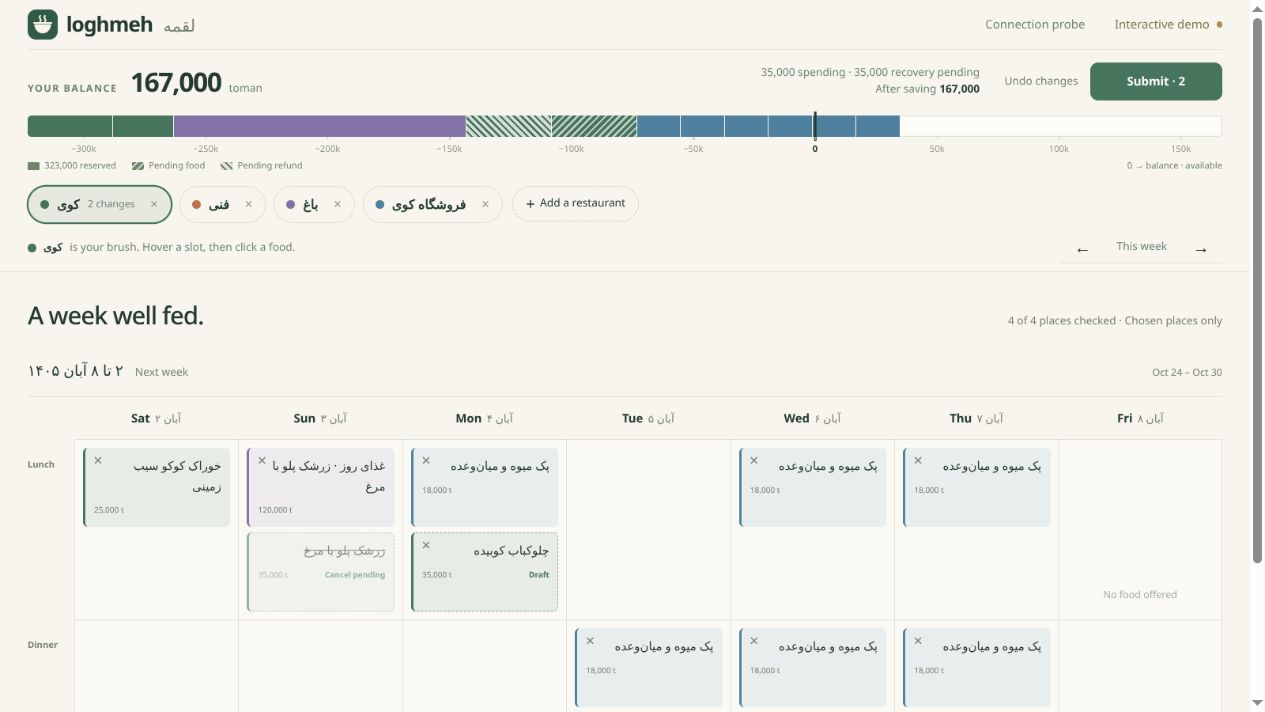
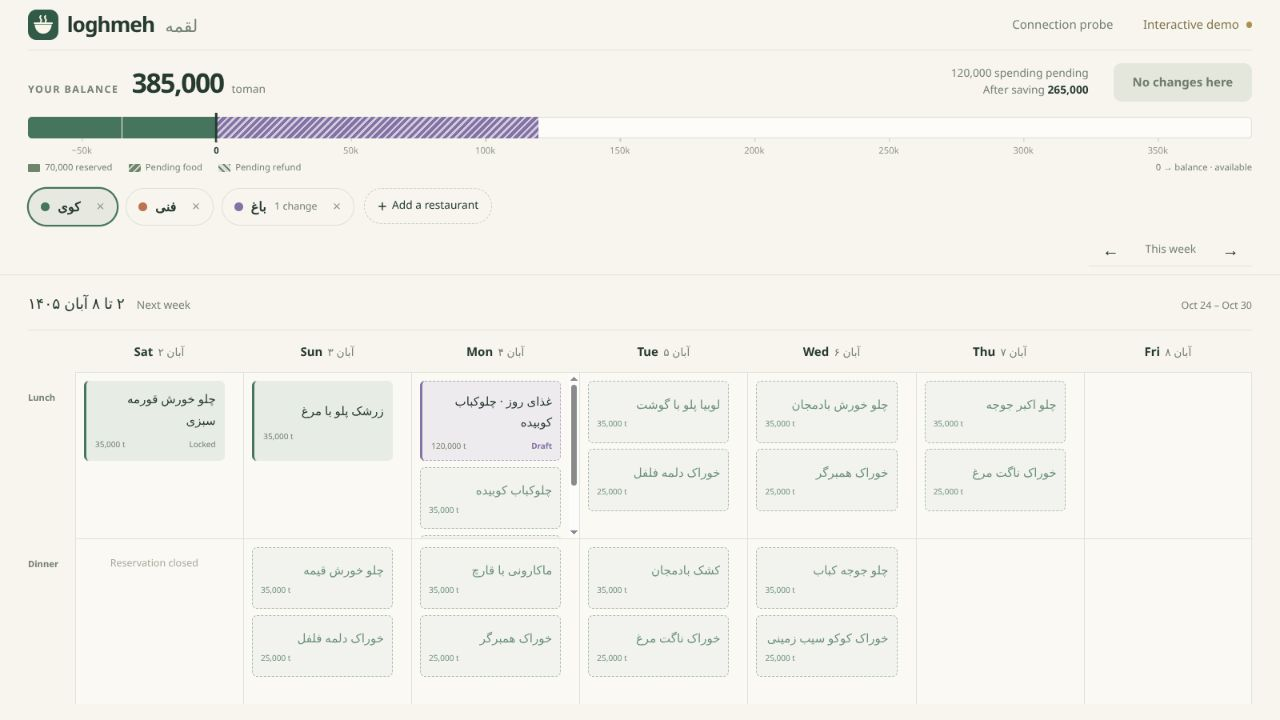
Fill the viewport with scrollable meal cells and direct removal

diff --git a/extension/planner.css b/extension/planner.css
@@ -1,6 +1,6 @@
-:root { color-scheme: light; --ink: #263a2e; --muted: #758075; --paper: #f7f5ee; --surface: #fdfcf8; --green: #315b46; --line: #dfe3d9; --active-color: #47745c; --danger: #b54b40; --header-height: 290px; }
+:root { color-scheme: light; --ink: #263a2e; --muted: #758075; --paper: #f7f5ee; --surface: #fdfcf8; --green: #315b46; --line: #dfe3d9; --active-color: #47745c; --danger: #b54b40; }
 * { box-sizing: border-box; }
-body { margin: 0; color: var(--ink); background: var(--paper); font: 14px/1.5 system-ui, -apple-system, sans-serif; }
+body { margin: 0; height: 100dvh; display: flex; flex-direction: column; color: var(--ink); background: var(--paper); font: 14px/1.5 system-ui, -apple-system, sans-serif; }
 button, input, select { font: inherit; }
 button { cursor: pointer; color: inherit; }
 button:disabled { cursor: default; opacity: .55; }
@@ -10,7 +10,7 @@ a { color: var(--green); text-decoration: none; }
 a:hover { text-decoration: underline; }
 [hidden] { display: none !important; }
 .sr-only { position: absolute; width: 1px; height: 1px; overflow: hidden; clip-path: inset(50%); white-space: nowrap; }
-.app-shell { position: sticky; top: 0; z-index: 10; background: var(--paper); border-bottom: 1px solid var(--line); padding: 0 max(28px, calc((100vw - 1336px)/2)); }
+.app-shell { position: relative; flex-shrink: 0; z-index: 10; background: var(--paper); border-bottom: 1px solid var(--line); padding: 0 28px; }
 .topbar { display: flex; justify-content: space-between; align-items: center; height: 50px; border-bottom: 1px solid var(--line); }
 .brand { display: inline-flex; align-items: center; gap: 9px; color: var(--ink); font-size: 21px; font-weight: 750; letter-spacing: -.8px; }
 .brand span[lang] { font-size: 17px; font-weight: 500; color: var(--muted); margin-left: 6px; }
@@ -75,10 +75,7 @@ a:hover { text-decoration: underline; }
 .add-place { display: flex; align-items: center; gap: 5px; border: 1px dashed #c7cfbf; padding: 8px 13px; border-radius: 22px; background: transparent; font-size: 11px; white-space: nowrap; min-height: 36px; }
 .add-place:hover { background: #ecefe5; }
 .add-place > span:first-child { font-size: 16px; line-height: 1; }
-.calendar-toolbar { display: flex; justify-content: space-between; align-items: center; gap: 15px; padding: 0 0 8px; }
-.brush-hint { display: flex; align-items: center; gap: 7px; margin: 0; font-size: 11px; min-width: 0; }
-.brush-hint > span:nth-child(2) { font-weight: 600; overflow: hidden; text-overflow: ellipsis; white-space: nowrap; }
-.brush-hint .muted { flex-shrink: 0; }
+.calendar-toolbar { display: flex; justify-content: flex-end; padding: 0 0 8px; }
 .muted { color: var(--muted); }
 nav { display: flex; flex-shrink: 0; border-bottom: 1px solid var(--line); }
 nav button { font-size: 11px; border: 0; background: transparent; padding: 6px 13px; color: var(--muted); border-bottom: 2px solid transparent; margin-bottom: -1px; }
@@ -89,58 +86,46 @@ nav button[aria-pressed="true"] { color: var(--ink); border-bottom-color: var(--
 .today-label { font-weight: 650; white-space: nowrap; }
 #today-reservations { display: flex; gap: 14px; color: var(--muted); flex-wrap: wrap; }
 .today-booking { display: inline-flex; align-items: center; gap: 6px; color: var(--ink); }
-.autosave-hint { color: var(--muted); margin-left: auto; white-space: nowrap; font-size: 10px; }
-.calendar-main { max-width: 1336px; padding: 0 28px 24px; margin: 0 auto; }
-.calendar-heading { display: flex; justify-content: space-between; align-items: baseline; padding: 26px 0 8px; gap: 20px; }
-h1 { font-size: 25px; letter-spacing: -.9px; font-weight: 550; margin: 0; }
-#coverage { font-size: 11px; color: var(--muted); text-align: right; }
-.week { scroll-margin-top: calc(var(--header-height) + 16px); margin-bottom: 35px; }
-.weeks { overflow-anchor: none; }
-.week-heading { display: flex; justify-content: space-between; align-items: baseline; padding: 18px 0 14px; }
+.calendar-main { display: flex; flex-direction: column; flex: 1; min-height: 0; width: 100%; padding: 0 28px 16px; }
+.week { height: 100%; display: flex; flex-direction: column; }
+.weeks { flex: 1; min-height: 0; }
+.week-heading { display: flex; flex-shrink: 0; justify-content: space-between; align-items: baseline; padding: 18px 0 14px; }
 .week-heading h2 { font-size: 15px; margin: 0; font-weight: 550; }
 .week-heading .week-relative { font-size: 11px; color: var(--muted); margin-left: 12px; }
 .week-heading .week-gregorian { font-size: 10px; color: var(--muted); }
-.week-grid { display: grid; grid-template-columns: 47px repeat(7, minmax(0, 1fr)); border-top: 1px solid var(--line); }
+.week-scroll { flex: 1; min-height: 0; }
+.week-grid { height: 100%; display: grid; grid-template-columns: 47px repeat(7, minmax(0, 1fr)); grid-template-rows: auto repeat(2, minmax(0, 1fr)); border-top: 1px solid var(--line); }
 .day-heading { padding: 13px 8px 11px; display: flex; gap: 5px; align-items: baseline; justify-content: center; font-size: 11px; color: var(--muted); }
 .day-heading strong { color: var(--ink); font-size: 12px; font-weight: 600; }
 .day-heading.is-today { color: var(--green); }
 .day-heading.is-today strong { color: var(--green); }
 .day-heading.is-today::after { content: 'TODAY'; font-size: 7px; color: var(--green); letter-spacing: .4px; }
 .meal-heading { color: var(--muted); font-size: 9px; padding-top: 20px; font-weight: 600; }
-.meal-slot { position: relative; min-height: 162px; border-top: 1px solid var(--line); border-left: 1px solid var(--line); padding: 8px; display: flex; flex-direction: column; gap: 6px; background: color-mix(in srgb, var(--surface) 52%, var(--paper)); }
+.meal-slot { position: relative; min-height: 0; min-width: 0; overflow-y: auto; overscroll-behavior: contain; scrollbar-gutter: stable; scrollbar-width: thin; border-top: 1px solid var(--line); border-left: 1px solid var(--line); padding: 8px; display: flex; flex-direction: column; gap: 6px; background: color-mix(in srgb, var(--surface) 52%, var(--paper)); }
 .meal-slot:nth-child(8n) { border-right: 1px solid var(--line); }
 .meal-slot.current-slot { background: #eef1e4; box-shadow: inset 0 2px var(--green); }
 .meal-slot.has-conflict { background: #fbefea; }
-.slot-cards { display: flex; flex-direction: column; gap: 5px; transition: opacity .13s; }
-.food-card { position: relative; border-radius: 5px; background: color-mix(in srgb, var(--restaurant-color) 12%, var(--surface)); border-left: 3px solid var(--restaurant-color); padding: 8px 9px 7px; min-height: 80px; }
+.slot-cards { display: flex; flex-shrink: 0; flex-direction: column; gap: 5px; }
+.food-card { position: relative; display: block; width: 100%; text-align: initial; color: var(--ink); border: 0; border-radius: 5px; background: color-mix(in srgb, var(--restaurant-color) 12%, var(--surface)); border-left: 3px solid var(--restaurant-color); padding: 8px 9px 7px; min-height: 80px; }
 .food-card.is-draft { outline: 1px dashed color-mix(in srgb, var(--restaurant-color) 55%, transparent); outline-offset: -1px; }
 .food-card.is-removing { opacity: .55; }
 .food-card.is-removing .food-name { text-decoration: line-through; }
-.card-remove { position: absolute; top: 2px; left: 2px; border: 0; border-radius: 3px; background: transparent; color: #788274; font-size: 16px; width: 22px; height: 22px; padding: 0; line-height: 1; }
-.food-card:has(.card-remove) .food-name { padding-left: 12px; }
+.remove-hint { position: absolute; inset: 0; display: grid; place-items: center; border-radius: inherit; background: color-mix(in srgb, var(--surface) 85%, transparent); color: var(--restaurant-color); font-size: 32px; opacity: 0; pointer-events: none; transition: opacity .13s; }
+.food-card.is-removable:hover .remove-hint, .food-card.is-removable:focus-visible .remove-hint { opacity: 1; }
 .food-name { display: block; width: 100%; border: 0; background: transparent; text-align: right; font-size: 12px; line-height: 1.75; padding: 0; min-height: 22px; }
 .food-card-bottom { display: flex; justify-content: space-between; gap: 4px; margin-top: 7px; font-size: 8px; color: #74806e; }
 .food-card-bottom .draft-state { color: var(--restaurant-color); font-weight: 600; }
 .slot-cards:empty { display: none; }
-.paint-surface { display: flex; flex-direction: column; gap: 6px; flex: 1; }
-.ghost-options { position: absolute; inset: 8px; display: flex; flex-direction: column; gap: 6px; opacity: 0; pointer-events: none; transition: opacity .13s; }
-.ghost-option { position: relative; flex: 1; display: flex; min-height: 62px; border: 1px dashed color-mix(in srgb, var(--active-color) 55%, transparent); border-radius: 5px; background: color-mix(in srgb, var(--active-color) 7%, var(--surface)); opacity: .66; }
+.paint-surface { display: flex; flex-shrink: 0; flex-direction: column; gap: 6px; }
+.ghost-options { display: flex; flex-direction: column; gap: 6px; }
+.ghost-option { position: relative; display: flex; min-height: 62px; border: 1px dashed color-mix(in srgb, var(--active-color) 55%, transparent); border-radius: 5px; background: color-mix(in srgb, var(--active-color) 7%, var(--surface)); opacity: .8; }
 .ghost-option:hover, .ghost-option:focus-within { opacity: 1; background: color-mix(in srgb, var(--active-color) 14%, var(--surface)); border-style: solid; }
-.ghost-option.is-selected { border-style: solid; }
 .ghost-choice { border: 0; background: transparent; padding: 7px 8px 6px; text-align: right; width: 100%; display: flex; flex-direction: column; justify-content: center; color: var(--active-color); border-radius: 4px; }
 .ghost-name { font-size: 12px; line-height: 1.65; display: -webkit-box; -webkit-line-clamp: 2; -webkit-box-orient: vertical; overflow: hidden; width: 100%; }
 .ghost-meta { font-size: 8px; text-align: left; margin-top: 3px; }
-.ghost-option.is-selected .ghost-choice { padding-left: 24px; }
-.ghost-remove { position: absolute; bottom: 4px; left: 3px; min-width: 23px; min-height: 23px; border: 0; background: transparent; color: var(--active-color); border-radius: 3px; font-size: 16px; }
-.ghost-remove:hover { background: color-mix(in srgb, var(--active-color) 15%, transparent); }
-.meal-slot:hover .ghost-options, .paint-surface:has(.ghost-options :focus-visible) .ghost-options { opacity: 1; pointer-events: auto; }
-.meal-slot:has(.can-paint):hover .slot-cards, .meal-slot:has(.ghost-options :focus-visible) .slot-cards { opacity: .06; pointer-events: none; }
-.meal-slot:has(.slot-cards :focus-visible) .ghost-options { opacity: 0; pointer-events: none; }
-.meal-slot:has(.slot-cards :focus-visible) .slot-cards { opacity: 1; pointer-events: auto; }
 .slot-state { margin-top: auto; display: flex; justify-content: center; align-items: center; gap: 7px; color: #a3aa9c; font-size: 10px; min-height: 33px; padding: 8px 3px; text-align: center; }
 button.slot-state { width: 100%; border: 1px dashed #c4ccbe; background: transparent; border-radius: 4px; color: var(--active-color); }
 .slot-conflict { color: var(--danger); font-size: 9px; margin: 0; }
-.calendar-footer { display: flex; justify-content: space-between; color: #939c8c; font-size: 10px; gap: 20px; padding-bottom: 30px; }
 .planner-warning { padding: 12px 14px; background: #f7e6de; border-left: 3px solid var(--danger); font-size: 12px; margin-top: 16px; }
 dialog { width: min(460px, calc(100% - 32px)); max-height: min(730px, calc(100dvh - 48px)); overflow: auto; padding: 26px; color: var(--ink); background: var(--surface); border: 1px solid var(--line); border-radius: 14px; box-shadow: 0 20px 90px #263a2e26; }
 dialog::backdrop { background: #263a2e4d; backdrop-filter: blur(2px); }
@@ -169,8 +154,7 @@ dialog::backdrop { background: #263a2e4d; backdrop-filter: blur(2px); }
 .toast { position: fixed; z-index: 30; bottom: 22px; left: 50%; transform: translateX(-50%); background: #263a2e; color: white; padding: 12px 20px; border-radius: 9px; font-size: 12px; box-shadow: 0 8px 35px #263a2e26; max-width: min(600px, calc(100% - 40px)); }
 @media (max-width: 1000px) {
   .app-shell { padding: 0 20px; }
-  .calendar-main { padding: 0 20px 24px; }
-  .autosave-hint { display: none; }
+  .calendar-main { padding: 0 20px 16px; }
   .meal-slot { padding: 5px; }
   .food-card { padding: 6px; }
   .food-name { font-size: 11px; }
@@ -200,28 +184,15 @@ dialog::backdrop { background: #263a2e4d; backdrop-filter: blur(2px); }
   .pill-status { max-width: 64px; font-size: 9px; }
   .add-place { min-height: 36px; width: 36px; justify-content: center; padding: 8px; flex-shrink: 0; }
   .add-place-label { display: none; }
-  .brush-hint { font-size: 10px; gap: 5px; }
-  .brush-hint .muted { display: none; }
   nav button { padding: 5px 9px; }
   .today-strip { font-size: 10px; gap: 8px; padding: 6px 0; }
   #today-reservations { gap: 5px; }
-  .calendar-main { padding: 0 14px 20px; }
-  .calendar-heading { padding-top: 18px; align-items: center; }
-  h1 { font-size: 21px; }
-  #coverage { font-size: 9px; max-width: 135px; }
+  .calendar-main { padding: 0 14px 12px; }
   .week-heading { padding: 15px 0 10px; }
   .week-heading .week-gregorian { display: none; }
   .week-grid { grid-template-columns: 45px repeat(7, minmax(132px, 1fr)); min-width: 970px; }
-  .week-scroll { overflow-x: auto; border-right: 1px solid var(--line); }
-  .week-scroll::after { content: 'Scroll sideways to see every day'; display: block; font-size: 9px; color: var(--muted); padding: 7px 0; position: sticky; left: 0; }
+  .week-scroll { overflow-x: auto; overflow-y: hidden; border-right: 1px solid var(--line); }
   .meal-heading { position: sticky; left: 0; z-index: 1; background: var(--paper); }
   .food-name { font-size: 12px; }
-  .calendar-footer { flex-direction: column; gap: 5px; }
-}
-@media (hover: none) {
-  .ghost-options { position: relative; inset: auto; opacity: 1; pointer-events: auto; }
-  .paint-surface.can-paint .active-bookings { display: none; }
-  .meal-slot:hover .slot-cards { opacity: 1; pointer-events: auto; }
-  .ghost-option { opacity: .85; }
 }
 @media (prefers-reduced-motion: reduce) { *, *::before, *::after { scroll-behavior: auto !important; animation: none !important; transition: none !important; } }

diff --git a/extension/planner.html b/extension/planner.html
@@ -30,17 +30,14 @@
       <button id="add-place" class="add-place" aria-haspopup="dialog" aria-label="Add a restaurant"><span aria-hidden="true">+</span><span class="add-place-label">Add a restaurant</span></button>
     </div>
     <div class="calendar-toolbar">
-      <p class="brush-hint"><span id="brush-dot" class="color-dot"></span><span id="brush-name" dir="auto"></span><span class="muted">is your brush. Hover a slot, then click a food.</span></p>
       <nav class="week-navigation" aria-label="Calendar week"><button id="week-previous" aria-label="Previous week" title="Previous week">←</button><button id="jump-current" aria-pressed="false">This week</button><button id="week-next" aria-label="Next week" title="Next week">→</button></nav>
     </div>
-    <div class="today-strip" id="today-strip" hidden><span class="today-label" id="today-label">Today</span><div id="today-reservations">Finding today’s meals…</div><span class="autosave-hint">Saves when you change restaurant</span></div>
+    <div class="today-strip" id="today-strip" hidden><span class="today-label" id="today-label">Today</span><div id="today-reservations">Finding today’s meals…</div></div>
   </header>
 
-  <main class="calendar-main">
+  <main class="calendar-main" aria-label="Meal calendar">
     <div id="planner-warning" class="planner-warning" role="alert" hidden></div>
-    <div class="calendar-heading"><h1>A week well fed.</h1><span id="coverage">Checking your places…</span></div>
     <div id="weeks" class="weeks"></div>
-    <footer class="calendar-footer"><span>One week at a time · Saves when you change restaurant.</span><span id="data-notice">Sample menus · Your university reservations are untouched.</span></footer>
   </main>
 
   <dialog id="place-picker" aria-labelledby="place-title">

diff --git a/tests/browser-live-planner.html b/tests/browser-live-planner.html
@@ -30,17 +30,14 @@
       <button id="add-place" class="add-place" aria-haspopup="dialog" aria-label="Add a restaurant"><span aria-hidden="true">+</span><span class="add-place-label">Add a restaurant</span></button>
     </div>
     <div class="calendar-toolbar">
-      <p class="brush-hint"><span id="brush-dot" class="color-dot"></span><span id="brush-name" dir="auto"></span><span class="muted">is your brush. Hover a slot, then click a food.</span></p>
       <nav class="week-navigation" aria-label="Calendar week"><button id="week-previous" aria-label="Previous week" title="Previous week">←</button><button id="jump-current" aria-pressed="false">This week</button><button id="week-next" aria-label="Next week" title="Next week">→</button></nav>
     </div>
-    <div class="today-strip" id="today-strip" hidden><span class="today-label" id="today-label">Today</span><div id="today-reservations">Finding today’s meals…</div><span class="autosave-hint">Saves when you change restaurant</span></div>
+    <div class="today-strip" id="today-strip" hidden><span class="today-label" id="today-label">Today</span><div id="today-reservations">Finding today’s meals…</div></div>
   </header>
 
-  <main class="calendar-main">
+  <main class="calendar-main" aria-label="Meal calendar">
     <div id="planner-warning" class="planner-warning" role="alert" hidden></div>
-    <div class="calendar-heading"><h1>A week well fed.</h1><span id="coverage">Checking your places…</span></div>
     <div id="weeks" class="weeks"></div>
-    <footer class="calendar-footer"><span>One week at a time · Saves when you change restaurant.</span><span id="data-notice">Sample menus · Your university reservations are untouched.</span></footer>
   </main>
 
   <dialog id="place-picker" aria-labelledby="place-title">

diff --git a/tests/browser-mobile.html b/tests/browser-mobile.html
@@ -5,7 +5,7 @@
 <title>Loghmeh · 390px responsive check</title>
 <style>
   body { margin: 0; background: #e4e7df; display: flex; justify-content: center; }
-  iframe { width: min(390px, 100vw); height: 844px; border: 0; background: #f7f5ee; }
+  iframe { width: min(390px, 100vw); height: min(844px, 100dvh); border: 0; background: #f7f5ee; }
 </style>
 <iframe src="/extension/planner.html" title="Loghmeh at a 390 pixel mobile viewport"></iframe>
 </html>

diff --git a/README.md b/README.md
@@ -4,7 +4,7 @@ A calmer meal planner for University of Tehran dining. Pick your usual
 restaurants as colors, preview foods inside a weekly calendar, and keep your
 choices when the server rejects a request.
 
-Independent, unofficial Firefox / Zen extension. **Version 0.5.0 · MIT.**
+Independent, unofficial Firefox / Zen extension. **Version 0.6.0 · MIT.**
 
 ![The weekly planner with fictional menus and pending balance changes](docs/assets/planner-demo.jpg)
 
@@ -16,11 +16,14 @@ Independent, unofficial Firefox / Zen extension. **Version 0.5.0 · MIT.**
 4. Open **Loghmeh** from the browser toolbar. It connects using that browser's
    dining login. If signed out, use **Open dining login**, sign in normally,
    then **Reconnect dining**.
-5. Add your usual restaurants from the nested picker. Hover a slot and click
-   a food to select it; keyboard focus reveals the same choices.
+5. Add your usual restaurants from the nested picker. Food options stay visible;
+   click one to select it. Hovering an existing reservation shows ×; clicking the
+   card stages its removal. Keyboard focus provides the same actions.
 
-**The extension planner uses real dining data. Submit and changing restaurants
-submit the outgoing restaurant's pending changes.** The sample-menu link opens
+**The extension planner uses real dining data. Submit and changing restaurant
+pills submit the outgoing restaurant's pending changes.** Clicking a reservation
+stages its cancellation and activates that restaurant for Submit/Undo; other
+drafts stay pending. The sample-menu link opens
 an isolated simulation if you want to explore the interactions first.
 
 After updating source, click **Reload** in `about:debugging`, then open a new
@@ -32,10 +35,11 @@ The only host permission is `https://dining2.ut.ac.ir/*`.
 - View one Saturday-first week, with previous/next controls, Jalali and
   Gregorian dates, and today in Asia/Tehran. Only that week is requested for
   selected restaurants; menus arrive incrementally beside their loading pills.
-  Returning to a loaded week reuses its snapshot in the open tab.
-- Use **This week** to see current reservations. Coverage refers to your selected
-  places; Loghmeh does not claim to have scanned every place. No other week is
-  scanned in the background.
+  Returning to a loaded week reuses its snapshot in the open tab. The calendar
+  fills the viewport; each meal cell scrolls independently and keeps its height
+  when restaurant content changes.
+- Use **This week** to see current reservations. Only selected places are checked;
+  no other week is scanned in the background.
 - See known paid value below zero and available balance above zero on the ruler. Pending
   spending and refunds use opposite hatching. Pending amounts are estimates;
   confirmed balances come from dining. Food segments follow date, meal, place,
@@ -73,8 +77,14 @@ created by the implementation tests.
 Version 0.5.0's single-week navigation, incremental loading, cached return,
 active-week refresh, and chronological balance hatches were checked in the
 browser against fictional HTTP responses. [UI verification notes](docs/verification/ui-0.5.0.md).
+Version 0.6.0 removes the calendar instructions, coverage summary, slogan, and
+footer notices. Reservation cards are direct removal buttons; food options stay
+visible in the empty painting space. Fixed calendar rows fill the remaining
+viewport and each cell scrolls independently. Slots with no foods stay blank.
+The cross-restaurant cancellation flow was checked in the browser's HTTP fixture
+and a dedicated controller test. [Calendar verification notes](docs/verification/ui-0.6.0.md).
 
-There are 50 passing Node tests and 20 passing browser parser checks. The
+There are 51 passing Node tests and 20 passing browser parser checks. The
 write serializer and reconciliation logic are tested with fictional HTTP
 responses; one live change is verified. General refund behavior and batch
 atomicity remain unverified. See
@@ -104,7 +114,7 @@ Useful local checks:
 - `/tests/browser-mobile.html` — 390px responsive preview.
 - `/extension/probe.html` — the separate read-only connection probe.
 
-`npm run package` builds `dist/loghmeh-0.5.0.zip`, also loadable as a temporary
+`npm run package` builds `dist/loghmeh-0.6.0.zip`, also loadable as a temporary
 add-on. Packages contain `extension/` and the MIT license. Captures, outputs, private checks,
 and local credentials are ignored and excluded.
 

diff --git a/docs/next-ui.md b/docs/next-ui.md
@@ -11,9 +11,17 @@ refinements are now in 0.5.0:
   of the active brush or save order. Pending removals hatch in place and their
   space collapses on confirmation.
 
+Version 0.6.0 removes the calendar slogan, brush instructions, coverage summary,
+and footer notices. Existing reservation cards show a hover/focus × and the
+entire card stages removal; there is no separate remove button. Food previews
+stay visible in the empty painting space and cannot cover a reservation. The
+calendar fills the viewport with equal, fixed meal rows; each cell scrolls its
+own contents. Empty menus leave blank cells rather than no-food labels. Removing a card
+from another restaurant activates its Submit/Undo context without implicitly
+saving the outgoing draft. Locked reservations retain their lock reason.
+
 Still open from the earlier interaction ideas:
 
-- Remove a conflicting food directly without first changing the active brush.
 - Clicking a reservation bar selects its restaurant. An already-selected bar
   exposes an accessible remove control.
 
@@ -25,6 +33,6 @@ their server lock/reason in both the calendar and bar controls.
 
 The live API supplies current food prices and actual balance. Pending purchase
 and recovery values remain estimates until confirmation. Missing food entries
-do not establish whether a week is unpublished; empty live menus say only that
-no food was returned. The one-change live test does not establish general refund
+do not establish whether a week is unpublished; empty live menus leave the cells
+blank without inferring a publication state. The one-change live test does not establish general refund
 rules or multi-change atomicity.

diff --git a/docs/live-api.md b/docs/live-api.md
@@ -1,6 +1,6 @@
 # Live dining integration
 
-Version 0.5.0. Loghmeh uses Firefox's existing dining session. It does not
+Version 0.6.0. Loghmeh uses Firefox's existing dining session. It does not
 implement SSO, request a password, export cookies, or run a proxy server.
 
 ## Endpoints
@@ -38,8 +38,9 @@ restaurant changes and Submit retain their existing submission behavior.
 A menu read starts by asking for the session's selected week. If already at
 the target it does not advance again. Large cursor distances reset to current
 week before bounded navigation; a request never walks more than eight weeks.
-The week controls can navigate further, but those loads return a range error. Empty
-responses do not prove a publication status, so live slots say "No food returned".
+The week controls can navigate further, but those loads return a range error.
+Empty responses do not prove a publication status. Cells with no food choices
+stay blank; request failures and loading states remain explicit.
 
 The original website and other clients do not participate in this queue.
 Use one reservation interface at a time. Encoded records retain their exact
@@ -103,7 +104,7 @@ account identifiers, wallet identifiers, and raw server HTML.
 
 ## Verification
 
-- 50 Node tests cover transport boundaries, the shared queue, exact opaque
+- 51 Node tests cover transport boundaries, the shared queue, exact opaque
   serialization, cursor validation, business rejection, lost-response
   reconciliation, partial success, changed accounts/prices/quantities, and
   the existing planner and signed ledger behavior.

diff --git a/docs/verification/ui-0.6.0.md b/docs/verification/ui-0.6.0.md
@@ -1,0 +1,21 @@
+# Calendar checks · 0.6.0
+
+Checked on 2026-10-23 with fictional menus and the live-stack HTTP fixture.
+No university reservation was changed during these checks.
+
+- Removed the brush instructions, slogan, coverage summary, and footer notices.
+  Reservation cards contain no nested remove button. Their whole button stages
+  cancellation, with an accessible name and a hover/focus-only × hint.
+- Clicking another restaurant's reservation activates its Submit/Undo context
+  while retaining the outgoing draft. The fixture verified a cancellation by
+  read-back; the controller test confirms there is no implicit save on removal.
+- At a 1280 × 720 viewport, the document height stayed 720px and the grid ended
+  at 704px. All 14 cells measured 165.9px high. A cell with 232px of content
+  scrolled by 66.4px while the document and other cells remained at scroll zero.
+- Switching restaurant pills preserved every cell's measured height. Food
+  options remain visible without hover; cells with no offers contain no text.
+- The 390px responsive fixture fits the calendar within its viewport, with
+  horizontal week scrolling and independent vertical scrolling inside cells.
+- All 51 Node tests and 20 browser parser checks pass. This verifies the new
+  layout in Chromium; the earlier user-run Zen report remains the evidence for
+  the real session and reservation API.

diff --git a/docs/planner-prototype.md b/docs/planner-prototype.md
@@ -11,6 +11,10 @@ Pending cancellations stay in place until confirmation closes their space.
 Pills no longer show idle status text, and calendar cards use restaurant color
 with full names retained in tooltips and accessible labels. Current behavior is
 summarized in the [README](../README.md) and [live integration](live-api.md).
+Version 0.6.0 removes the explanatory calendar copy and makes each editable
+reservation card a direct removal button. Food options remain visible in empty
+space; fixed meal rows fill the viewport and each cell scrolls independently.
+Cells with no offers stay blank.
 
 ## Interaction
 

diff --git a/docs/verification.md b/docs/verification.md
@@ -3,7 +3,7 @@
 Date: 2026-10-22, Asia/Tehran. Authenticated probe version: 0.1.1.
 
 This file records the authenticated probe milestone in 0.1.1. The package is
-now 0.5.0 with a [live planner](live-api.md) and a separate
+now 0.6.0 with a [live planner](live-api.md) and a separate
 [simulation](planner-prototype.md). Live planner reads are also verified in Zen;
 one intended real change has also been verified after read-back.
 
